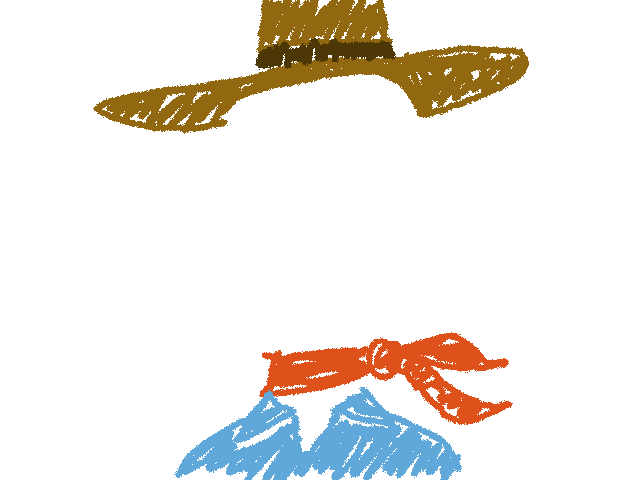
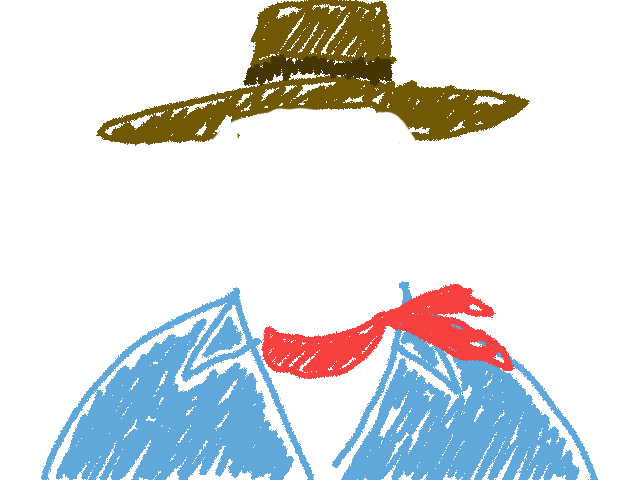
test files

Changed region(s): [[0.0625, 0.5938, 0.9375, 1.0], [0.125, 0.0, 0.8438, 0.3125]]

diff --git a/css/style.css b/css/style.css
@@ -37,6 +37,15 @@ height: 480px;
 z-index: 10;
 position: absolute;
 }
+
+.girl {
+  background: url(../img/girl.png) center top no-repeat;
+width: 640px;
+height: 480px;
+z-index: 10;
+position: absolute;
+}
+
 .blur {
   -webkit-filter: blur(3px);
   -moz-filter: blur(3px);

diff --git a/polygon.php b/polygon.php
@@ -1,0 +1,72 @@
+<?php
+/*
+	This examples was ported from Imagemagick C examples.
+*/
+
+/* Create Imagick objects */
+$Imagick = new Imagick();
+
+/* Create ImagickDraw objects */
+$ImagickDraw = new ImagickDraw();
+
+/* Create ImagickPixel objects */
+$ImagickPixel = new ImagickPixel();
+
+/* This array contains polygon geometry */
+$array = array( array( "x" => 378.1, "y" => 81.72 ),
+                array( "x" => 381.1, "y" => 79.56 ),
+                array( "x" => 384.3, "y" => 78.12 ),
+                array( "x" => 387.6, "y" => 77.33 ),
+                array( "x" => 391.1, "y" => 77.11 ),
+                array( "x" => 394.6, "y" => 77.62 ),
+                array( "x" => 397.8, "y" => 78.77 ),
+                array( "x" => 400.9, "y" => 80.57 ),
+                array( "x" => 403.6, "y" => 83.02 ),
+                array( "x" => 523.9, "y" => 216.8 ),
+                array( "x" => 526.2, "y" => 219.7 ),
+                array( "x" => 527.6, "y" => 223 ),
+                array( "x" => 528.4, "y" => 226.4 ),
+                array( "x" => 528.6, "y" => 229.8 ),
+                array( "x" => 528.0, "y" => 233.3 ),
+                array( "x" => 526.9, "y" => 236.5 ),
+                array( "x" => 525.1, "y" => 239.5 ),
+                array( "x" => 522.6, "y" => 242.2 ),
+                array( "x" => 495.9, "y" => 266.3 ),
+                array( "x" => 493, "y" => 268.5 ),
+                array( "x" => 489.7, "y" => 269.9 ),
+                array( "x" => 486.4, "y" => 270.8 ),
+                array( "x" => 482.9, "y" => 270.9 ),
+                array( "x" => 479.5, "y" => 270.4 ),
+                array( "x" => 476.2, "y" => 269.3 ),
+                array( "x" => 473.2, "y" => 267.5 ),
+                array( "x" => 470.4, "y" => 265 ),
+                array( "x" => 350, "y" => 131.2 ),
+                array( "x" => 347.8, "y" => 128.3 ),
+                array( "x" => 346.4, "y" => 125.1 ),
+                array( "x" => 345.6, "y" => 121.7 ),
+                array( "x" => 345.4, "y" => 118.2 ),
+                array( "x" => 346, "y" => 114.8 ),
+                array( "x" => 347.1, "y" => 111.5 ),
+                array( "x" => 348.9, "y" => 108.5 ),
+                array( "x" => 351.4, "y" => 105.8 ),
+                array( "x" => 378.1, "y" => 81.72 ),
+              );
+
+/* This ImagickPixel is used to set background color */
+$ImagickPixel->setColor( 'gray' );
+
+/* Create new image, set color to gray and format to png*/
+$Imagick->newImage( 700, 500, $ImagickPixel );
+$Imagick->setImageFormat( 'png' );
+
+/* Create the polygon*/
+$ImagickDraw->polygon( $array );
+
+/* Render the polygon to image*/
+$Imagick->drawImage( $ImagickDraw );
+
+/* Send headers and output the image */
+header( "Content-Type: image/{$Imagick->getImageFormat()}" );
+echo $Imagick->getImageBlob( );
+
+?>

diff --git a/findim.php b/findim.php
@@ -1,0 +1,40 @@
+<?
+/*
+// This file will run a test on your server to determine the location and versions of ImageMagick. 
+//It will look in the most commonly found locations. The last two are where most popular hosts (including "Godaddy") install ImageMagick.
+//
+// Upload this script to your server and run it for a breakdown of where ImageMagick is.
+//
+*/
+echo '<h2>Test for versions and locations of ImageMagick</h2>';
+echo '<b>Path: </b> convert<br>';
+
+function alist ($array) {  //This function prints a text array as an html list.
+    $alist = "<ul>";
+    for ($i = 0; $i < sizeof($array); $i++) {
+        $alist .= "<li>$array[$i]";
+    }
+    $alist .= "</ul>";
+    return $alist;
+}
+
+exec("convert -version", $out, $rcode); //Try to get ImageMagick "convert" program version number.
+echo "Version return code is $rcode <br>"; //Print the return code: 0 if OK, nonzero if error.
+echo alist($out); //Print the output of "convert -version"
+echo '<br>';
+echo '<b>This should test for ImageMagick version 5.x</b><br>';
+echo '<b>Path: </b> /usr/bin/convert<br>';
+
+exec("/usr/bin/convert -version", $out, $rcode); //Try to get ImageMagick "convert" program version number.
+echo "Version return code is $rcode <br>"; //Print the return code: 0 if OK, nonzero if error.
+echo alist($out); //Print the output of "convert -version"
+
+echo '<br>';
+echo '<b>This should test for ImageMagick version 6.x</b><br>';
+echo '<b>Path: </b> /usr/local/bin/convert<br>';
+
+exec("/usr/local/bin/convert -version", $out, $rcode); //Try to get ImageMagick "convert" program version number.
+echo "Version return code is $rcode <br>"; //Print the return code: 0 if OK, nonzero if error.
+echo alist($out); //Print the output of "convert -version";
+
+?>

diff --git a/captcha.php b/captcha.php
@@ -1,0 +1,53 @@
+<?php
+
+/*
+	A very primitive captcha implementation
+*/
+
+/* Create Imagick object */
+$Imagick = new Imagick();
+
+/* Create the ImagickPixel object (used to set the background color on image) */
+$bg = new ImagickPixel();
+
+/* Set the pixel color to white */
+$bg->setColor( 'white' );
+
+/* Create a drawing object and set the font size */
+$ImagickDraw = new ImagickDraw();
+
+/* Set font and font size. You can also specify /path/to/font.ttf */
+$ImagickDraw->setFont( 'Helvetica Regular' );
+$ImagickDraw->setFontSize( 20 );
+
+/* Create the text */
+$alphanum = 'ABXZRMHTL23456789';
+$string = substr( str_shuffle( $alphanum ), 2, 6 );
+
+/* Create new empty image */
+$Imagick->newImage( 85, 30, $bg ); 
+
+/* Write the text on the image */
+$Imagick->annotateImage( $ImagickDraw, 4, 20, 0, $string );
+
+/* Add some swirl */
+$Imagick->swirlImage( 20 );
+
+/* Create a few random lines */
+$ImagickDraw->line( rand( 0, 70 ), rand( 0, 30 ), rand( 0, 70 ), rand( 0, 30 ) );
+$ImagickDraw->line( rand( 0, 70 ), rand( 0, 30 ), rand( 0, 70 ), rand( 0, 30 ) );
+$ImagickDraw->line( rand( 0, 70 ), rand( 0, 30 ), rand( 0, 70 ), rand( 0, 30 ) );
+$ImagickDraw->line( rand( 0, 70 ), rand( 0, 30 ), rand( 0, 70 ), rand( 0, 30 ) );
+$ImagickDraw->line( rand( 0, 70 ), rand( 0, 30 ), rand( 0, 70 ), rand( 0, 30 ) );
+
+/* Draw the ImagickDraw object contents to the image. */
+$Imagick->drawImage( $ImagickDraw );
+
+/* Give the image a format */
+$Imagick->setImageFormat( 'png' );
+
+/* Send headers and output the image */
+header( "Content-Type: image/{$Imagick->getImageFormat()}" );
+echo $Imagick->getImageBlob( );
+
+?>

diff --git a/test.php b/test.php
@@ -1,0 +1,49 @@
+<?php
+
+error_reporting(E_ALL); 
+ini_set( 'display_errors','1');
+
+/* Create a new imagick object */
+$im = new Imagick();
+
+/* Create new image. This will be used as fill pattern */
+$im->newPseudoImage(50, 50, "gradient:red-black");
+
+/* Create imagickdraw object */
+$draw = new ImagickDraw();
+
+/* Start a new pattern called "gradient" */
+$draw->pushPattern('gradient', 0, 0, 50, 50);
+
+/* Composite the gradient on the pattern */
+$draw->composite(Imagick::COMPOSITE_OVER, 0, 0, 50, 50, $im);
+
+/* Close the pattern */
+$draw->popPattern();
+
+/* Use the pattern called "gradient" as the fill */
+$draw->setFillPatternURL('#gradient');
+
+/* Set font size to 52 */
+$draw->setFontSize(52);
+
+/* Annotate some text */
+$draw->annotation(20, 50, "Hello World!");
+
+/* Create a new canvas object and a white image */
+$canvas = new Imagick();
+$canvas->newImage(350, 70, "white");
+
+/* Draw the ImagickDraw on to the canvas */
+$canvas->drawImage($draw);
+
+/* 1px black border around the image */
+$canvas->borderImage('black', 1, 1);
+
+/* Set the format to PNG */
+$canvas->setImageFormat('png');
+
+/* Output the image */
+header("Content-Type: image/png");
+echo $canvas;
+?>

diff --git a/watermark.php b/watermark.php
@@ -1,0 +1,30 @@
+<?php
+
+/*
+	Simple example of watermarking
+*/
+
+/* Create Imagick object */
+$Imagick = new Imagick();
+
+/* Create a drawing object and set the font size */
+$ImagickDraw = new ImagickDraw();
+$ImagickDraw->setFontSize( 50 );
+
+/* Read image into object*/
+$Imagick->readImage( '/tmp/test.jpg' );
+
+/* Seek the place for the text */
+$ImagickDraw->setGravity( Imagick::GRAVITY_CENTER );
+
+/* Write the text on the image */
+$Imagick->annotateImage( $ImagickDraw, 4, 20, 0, "Test Watermark" );
+
+/* Set format to png */
+$Imagick->setImageFormat( 'png' );
+
+/* Output */
+header( "Content-Type: image/{$Imagick->getImageFormat()}" );
+echo $Imagick->getImageBlob();
+
+?>

diff --git a/index.php b/index.php
@@ -20,6 +20,7 @@
 </div>
 <div class="styleselector">
 <a id="cowboy" href="#">cowboy</a> 
+<a id="girl" href="#">girl</a> 
 </div>
 </body>
 <script>
@@ -104,6 +105,12 @@ $("#cowboy").on("click", function( event ) {
   event.preventDefault();
   $('#styler').removeClass();
   $('#styler').addClass('cowboy');
+});
+
+$("#girl").on("click", function( event ) {
+  event.preventDefault();
+  $('#styler').removeClass();
+  $('#styler').addClass('girl');
 });
 </script>
 

diff --git a/thumbnail.php b/thumbnail.php
@@ -1,0 +1,22 @@
+<?php
+ 
+/*
+	A simple example demonstrate thumbnail creation.
+*/ 
+ 
+/* Create the Imagick object */
+$im = new Imagick();
+ 
+/* Read the image file */
+$im->readImage( '/tmp/test.png' );
+ 
+/* Thumbnail the image ( width 100, preserve dimensions ) */
+$im->thumbnailImage( 100, null );
+ 
+/* Write the thumbail to disk */
+$im->writeImage( '/tmp/th_test.png' );
+ 
+/* Free resources associated to the Imagick object */
+$im->destroy();
+ 
+?>

diff --git a/greenscreen.php b/greenscreen.php
@@ -1,0 +1,12 @@
+<?php phpinfo(); 
+//header('Content-type: image/jpeg');
+
+$topbar = new Imagick("img/cowboy.png");
+$tapir = new Imagick("img/grnscrnmale.jpg");
+
+$tapir->compositeImage($topbar, Imagick::COMPOSITE_OVER, 0, 0);
+echo $tapir;
+?>
+
+<?php phpinfo(); ?>
+
